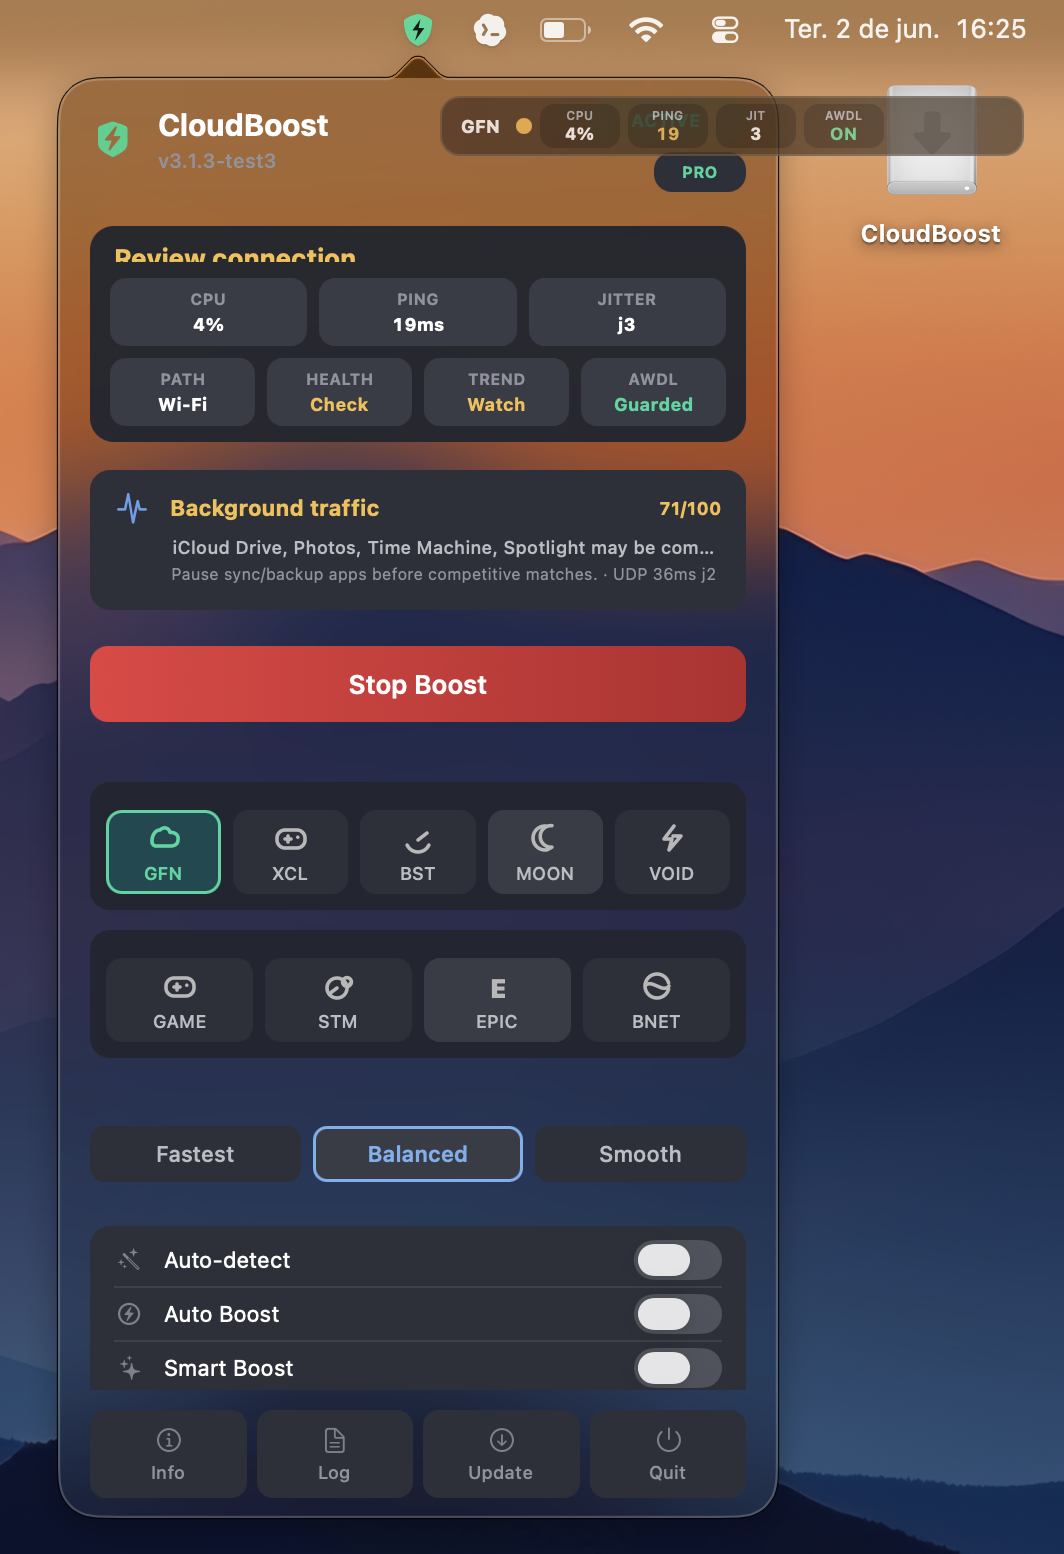
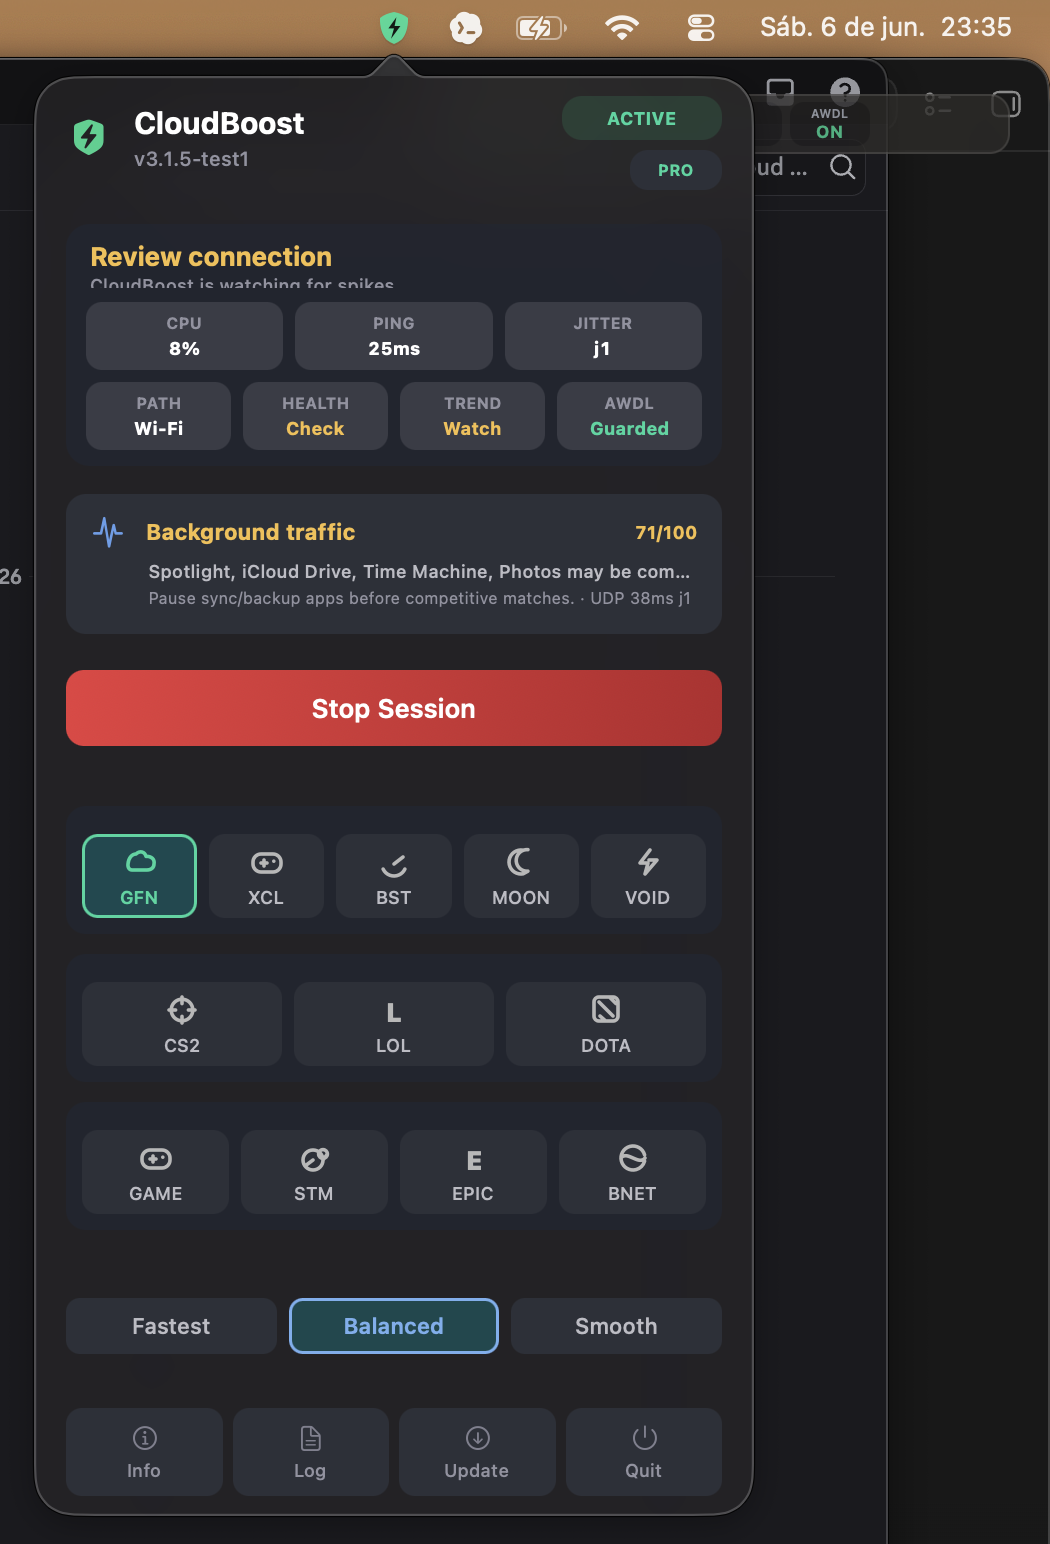
Refresh site and community messaging

diff --git a/docs/index.html b/docs/index.html
@@ -3,8 +3,8 @@
   <head>
     <meta charset="utf-8">
     <meta name="viewport" content="width=device-width, initial-scale=1">
-    <title>CloudBoost - Mac gaming stability for spikes, jitter, and noisy sessions</title>
-    <meta name="description" content="CloudBoost is a native macOS menu bar app for reducing local gaming-session noise and diagnosing spikes in cloud and Mac gaming.">
+    <title>CloudBoost - a small Mac utility for gaming sessions</title>
+    <meta name="description" content="CloudBoost is a native macOS menu bar app for reducing local session noise and diagnosing spikes in cloud and Mac gaming.">
     <meta property="og:title" content="CloudBoost">
     <meta property="og:description" content="Mac gaming stability for spikes, jitter, AWDL noise, background sync, and competitive cloud sessions.">
     <meta property="og:image" content="assets/cloudboost-app.png">
@@ -32,10 +32,10 @@
     <main>
       <section class="hero">
         <div class="intro">
-          <p class="label">CloudBoost 3.1.4</p>
-          <h1>CloudBoost</h1>
-          <p class="lead">A native macOS menu bar app for the part of gaming that speed tests rarely explain: spikes, jitter, background traffic, and sessions that suddenly feel uneven.</p>
-          <p class="note">CloudBoost does not promise magic FPS. It starts a focused session, reduces common macOS interruptions, and shows what may be hurting stability.</p>
+          <p class="label">Built for macOS</p>
+          <h1>A small Mac utility for noisy gaming sessions.</h1>
+          <p class="lead">I built CloudBoost after chasing the same annoying problem over and over: the connection looks fine, then a game suddenly stutters for no obvious reason.</p>
+          <p class="note">It is not a magic FPS tool and it will not make cloud gaming identical to a local PC. It starts a focused session, reduces common macOS interruptions, and shows what may be hurting stability.</p>
 
           <div id="download" class="actions">
             <a class="button download" href="https://github.com/victorbrandaao/CloudBoost/releases/latest">Download DMG</a>
@@ -45,23 +45,23 @@
 
           <dl class="facts">
             <div>
-              <dt>Latest</dt>
+              <dt>Latest release</dt>
               <dd>3.1.4</dd>
             </div>
             <div>
               <dt>Profiles</dt>
-              <dd>All free</dd>
+              <dd>Free</dd>
             </div>
             <div>
-              <dt>PRO</dt>
-              <dd>Diagnostics</dd>
+              <dt>Support</dt>
+              <dd>Discord</dd>
             </div>
           </dl>
 
           <div class="hero-proof" aria-label="Current focus">
-            <span>Session Doctor</span>
-            <span>Session Score</span>
-            <span>UDP Probe</span>
+            <span>No kernel extension</span>
+            <span>Reversible changes</span>
+            <span>Free and PRO support</span>
           </div>
         </div>
 
@@ -85,9 +85,9 @@
 
       <section id="competitive" class="section spotlight">
         <div class="section-head">
-          <p class="label">New in 3.1.4</p>
-          <h2>Competitive profiles for CS2, League of Legends, and Dota 2.</h2>
-          <p>CS2 is handled as a cloud/remote profile on macOS. League and Dota get local/cloud targeting, game-aware score thresholds, and the right mouse profile for FPS or MOBA sessions.</p>
+          <p class="label">Game profiles</p>
+          <h2>Cloud gaming, Mac launchers, and a few competitive profiles in one menu.</h2>
+          <p>CS2 is treated as a cloud/remote profile on macOS. League and Dota get local/cloud targeting, game-aware score thresholds, and the right mouse profile for FPS or MOBA sessions.</p>
         </div>
         <div class="game-grid">
           <article>
@@ -110,8 +110,8 @@
 
       <section id="gallery" class="section gallery-section">
         <div class="section-head">
-          <p class="label">Proof over promises</p>
-          <h2>CloudBoost turns a messy session into signals you can actually understand.</h2>
+          <p class="label">What it shows</p>
+          <h2>A quick read instead of a wall of numbers.</h2>
         </div>
         <div class="score-panel">
           <article>
@@ -134,12 +134,12 @@
 
       <section class="section two-column">
         <div>
-          <p class="label">Why I built it</p>
-          <h2>Speed tests rarely explain the stutter.</h2>
+          <p class="label">Why this exists</p>
+          <h2>Average ping was not the thing bothering me.</h2>
         </div>
         <div class="copy">
-          <p>I kept seeing the same thing on Mac: the connection looks fine, the game launches fine, and then tiny spikes make the session feel worse than it should.</p>
-          <p>CloudBoost is my attempt at a practical answer. Start a session, reduce the usual macOS interruptions, and restore things when you stop.</p>
+          <p>Most of my bad cloud gaming sessions were not bad from the first second. They were fine, then uneven, then fine again.</p>
+          <p>CloudBoost is my practical answer to that: start a session, reduce the usual macOS interruptions, show the likely cause when something feels off, and restore things when you stop.</p>
         </div>
       </section>
 
@@ -183,7 +183,7 @@
       <section id="pro" class="section pricing">
         <div class="pricing-copy">
           <p class="label">Free vs PRO</p>
-          <h2>Profiles stay free. PRO sells the part people actually need when the problem is not obvious.</h2>
+          <h2>Profiles stay free. PRO is for automation and diagnosis.</h2>
           <p>Use Free for manual session mode across cloud services, Mac launchers, and competitive profiles. Upgrade to PRO for auto-detect, auto boost, UDP Probe, Session Score, session history, and before/after diagnostics.</p>
           <a class="button download" href="https://victorbrandao0.gumroad.com/l/CloudBoost">Get CloudBoost PRO</a>
         </div>
@@ -269,6 +269,18 @@
         </div>
       </section>
 
+      <section class="section community-section">
+        <div>
+          <p class="label">Community and support</p>
+          <h2>Questions, setup help, and release notes are on Discord.</h2>
+        </div>
+        <div class="copy">
+          <p>The Discord is open to Free and PRO users. Use it to report issues, ask about settings, follow updates, or check whether a new release changes anything important for your setup.</p>
+          <p>PRO customers can also use it for license and diagnostics support.</p>
+          <a class="button community" href="https://discord.gg/kU5trxtRb">Join the CloudBoost Discord</a>
+        </div>
+      </section>
+
       <section id="notes" class="section notes">
         <div>
           <h2>Plain notes before installing</h2>
@@ -303,8 +315,8 @@
 
       <section class="final">
         <div>
-          <p class="label">Ready to try it?</p>
-          <h2>Download the DMG, run one session, and see if the Mac feels less noisy while you play.</h2>
+          <p class="label">Try it</p>
+          <h2>Download the DMG, run one session, and see if it helps your setup.</h2>
         </div>
         <div class="final-actions">
           <a class="button download" href="https://github.com/victorbrandaao/CloudBoost/releases/latest">Download CloudBoost</a>

diff --git a/docs/styles.css b/docs/styles.css
@@ -26,25 +26,14 @@ html {
 
 body {
   margin: 0;
-  background:
-    linear-gradient(140deg, rgba(32, 230, 161, 0.18), transparent 30rem),
-    linear-gradient(220deg, rgba(109, 181, 255, 0.16), transparent 34rem),
-    linear-gradient(180deg, #0d121b 0%, var(--bg) 46rem);
+  background: #0b0f14;
   color: var(--text);
   font-family: Inter, ui-sans-serif, -apple-system, BlinkMacSystemFont, "SF Pro Text", sans-serif;
   line-height: 1.55;
 }
 
 body::before {
-  content: "";
-  position: fixed;
-  inset: 0;
-  pointer-events: none;
-  background:
-    linear-gradient(rgba(255, 255, 255, 0.035) 1px, transparent 1px),
-    linear-gradient(90deg, rgba(255, 255, 255, 0.03) 1px, transparent 1px);
-  background-size: 42px 42px;
-  mask-image: linear-gradient(to bottom, black, transparent 760px);
+  content: none;
 }
 
 a {
@@ -126,11 +115,11 @@ footer a:hover {
 
 .hero {
   display: grid;
-  grid-template-columns: minmax(0, 1fr) 360px;
-  gap: 64px;
+  grid-template-columns: minmax(0, 1fr) 390px;
+  gap: 54px;
   align-items: center;
-  min-height: calc(100vh - 72px);
-  padding: 36px 0 70px;
+  min-height: auto;
+  padding: 72px 0 78px;
 }
 
 .intro {
@@ -156,8 +145,8 @@ p {
 h1 {
   max-width: 760px;
   margin-bottom: 18px;
-  font-size: clamp(62px, 9vw, 112px);
-  line-height: 0.86;
+  font-size: clamp(44px, 7vw, 78px);
+  line-height: 0.96;
   letter-spacing: 0;
 }
 
@@ -177,8 +166,8 @@ h3 {
   max-width: 660px;
   margin-bottom: 12px;
   color: var(--soft);
-  font-size: 21px;
-  line-height: 1.38;
+  font-size: 19px;
+  line-height: 1.46;
 }
 
 .note {
@@ -207,9 +196,9 @@ h3 {
 }
 
 .button.download {
-  background: linear-gradient(135deg, var(--green), #16a3ff);
+  background: var(--green);
   color: #06130f;
-  box-shadow: 0 12px 34px rgba(32, 230, 161, 0.25);
+  box-shadow: none;
 }
 
 .button.pro {
@@ -274,21 +263,20 @@ h3 {
 
 .screenshot {
   justify-self: end;
-  width: 340px;
+  width: 370px;
   margin: 0;
-  padding: 12px;
+  padding: 0;
   border: 1px solid var(--line);
-  border-radius: 28px;
-  background:
-    linear-gradient(180deg, rgba(255, 255, 255, 0.12), rgba(255, 255, 255, 0.03)),
-    rgba(255, 255, 255, 0.05);
-  box-shadow: 0 30px 90px rgba(0, 0, 0, 0.42);
+  border-radius: 24px;
+  background: rgba(255, 255, 255, 0.04);
+  box-shadow: 0 24px 70px rgba(0, 0, 0, 0.38);
+  overflow: hidden;
 }
 
 .screenshot img {
   display: block;
   width: 100%;
-  border-radius: 18px;
+  border-radius: 0;
 }
 
 .strip {
@@ -331,9 +319,7 @@ h3 {
 details {
   border: 1px solid var(--line);
   border-radius: 10px;
-  background:
-    linear-gradient(180deg, rgba(255, 255, 255, 0.075), rgba(255, 255, 255, 0.035)),
-    var(--surface);
+  background: var(--surface);
 }
 
 .game-grid article,
@@ -537,9 +523,7 @@ code {
   padding: 30px;
   border: 1px solid rgba(32, 230, 161, 0.28);
   border-radius: 14px;
-  background:
-    linear-gradient(135deg, rgba(32, 230, 161, 0.14), rgba(109, 181, 255, 0.08)),
-    rgba(255, 255, 255, 0.045);
+  background: rgba(32, 230, 161, 0.07);
 }
 
 .final-actions {
@@ -617,7 +601,7 @@ footer a {
   }
 
   h1 {
-    font-size: 58px;
+    font-size: 42px;
   }
 
   .lead {

diff --git a/README.md b/README.md
@@ -117,6 +117,10 @@ To activate PRO, purchase a license on [Gumroad](https://victorbrandao0.gumroad.
 - Direct updater that downloads the latest DMG from GitHub releases and opens the installer.
 - Local diagnostics and before/after session history for PRO users.
 
+## Community And Support
+
+The [CloudBoost Discord](https://discord.gg/kU5trxtRb) is open to Free and PRO users. Use it for setup help, release updates, issue reports, and PRO license support.
+
 ## Security And Transparency
 
 CloudBoost does not collect personal data, install kernel extensions, permanently modify protected system files, or run hidden daemons. The app uses supported macOS command-line tools and native APIs, and session changes are designed to be restored when CloudBoost is disabled or quits.

diff --git a/release_notes.md b/release_notes.md
@@ -30,3 +30,11 @@ The free version includes all cloud gaming, Mac gaming, and competitive game pro
 CloudBoost PRO unlocks Auto-Detect, Auto Boost, Smart Boost, Stability Guard, game-aware Session Doctor with UDP Probe, Session Score, Heat Guard, Keep Alive, Competitive and Smooth presets, diagnostics export, and before/after session history.
 
 Existing PRO customers keep access to the PRO features they already purchased.
+
+### Support and Community
+
+If you need setup help, want to report a session issue, or want to follow future builds, join the CloudBoost Discord:
+
+https://discord.gg/kU5trxtRb
+
+The Discord is open to Free and PRO users. PRO customers can also use it for license and diagnostics support.
